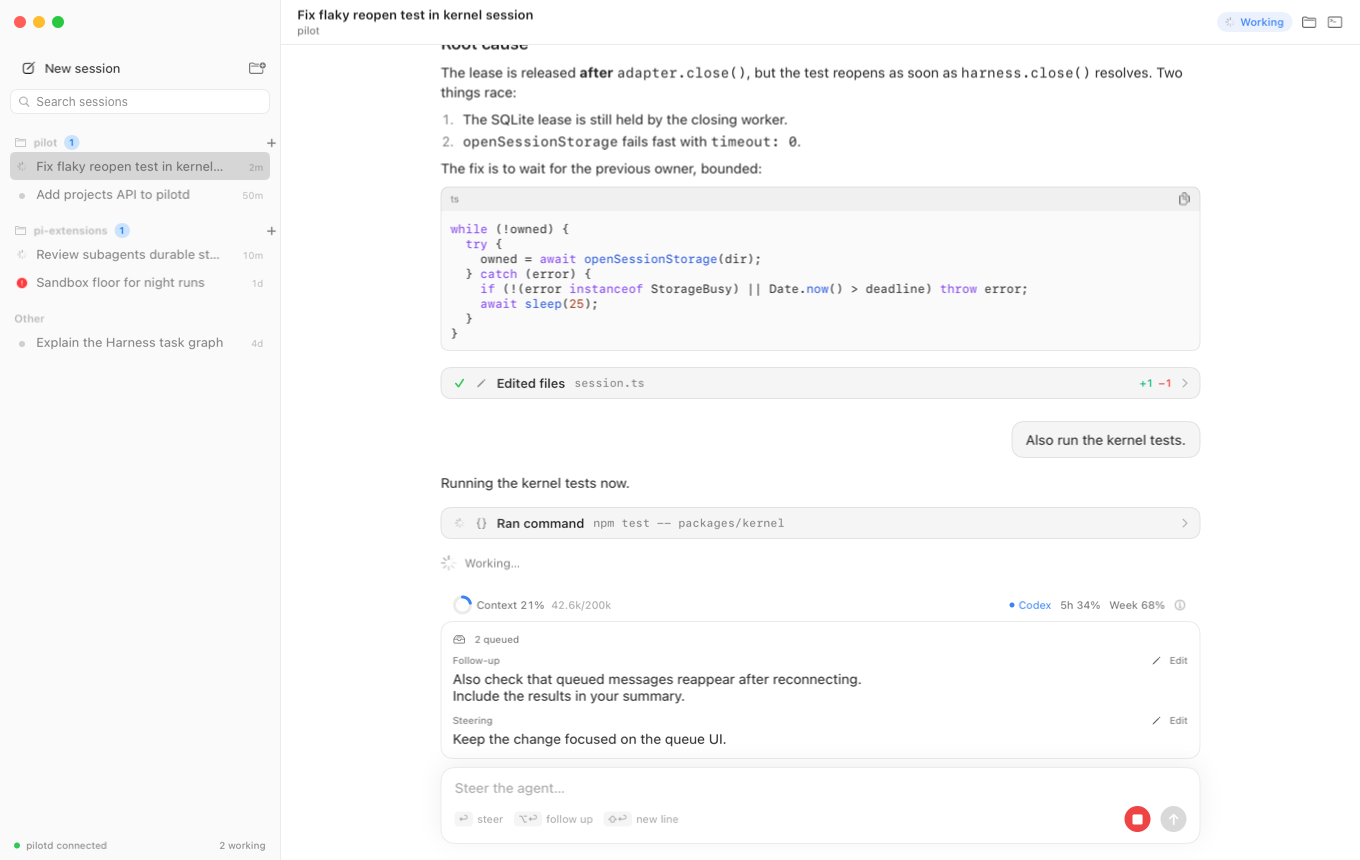
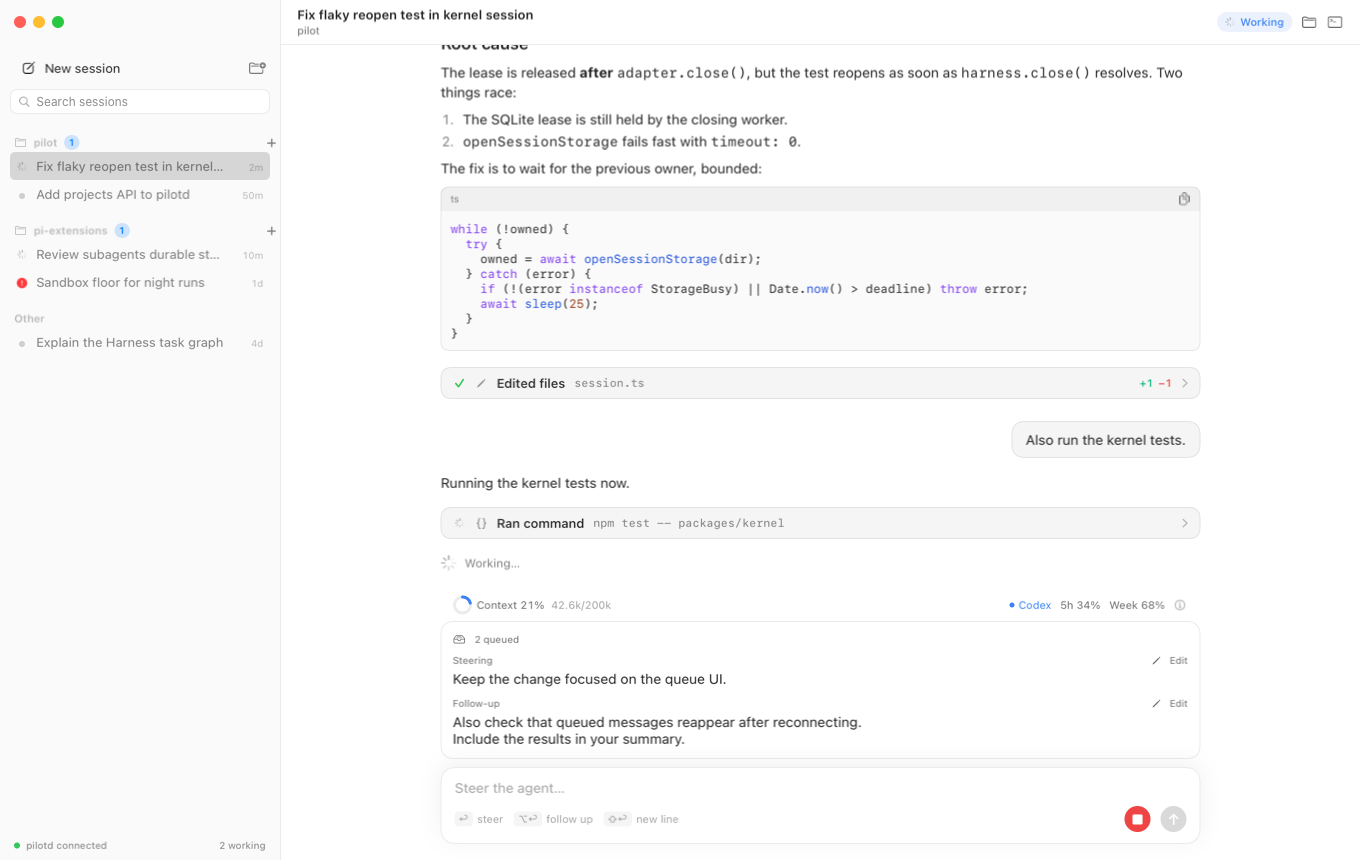
fix(chat): display steering before queued follow-ups

Changed region(s): [[0.3088, 0.7558, 0.6485, 0.8767], [0.8647, 0.8163, 0.8956, 0.8465]]

diff --git a/apps/macos/Tests/PilotCoreTests/TranscriptTests.swift b/apps/macos/Tests/PilotCoreTests/TranscriptTests.swift
@@ -93,8 +93,22 @@ private func json(_ text: String) -> JSONValue {
     #expect(transcript.queuedMessages.map(\.id) == [10, 11])
     #expect(transcript.queuedMessages.map(\.mode) == [.followUp, .steer])
     #expect(transcript.queuedMessages.map(\.text) == ["Edited\nDetails", "Unchanged"])
+    #expect(transcript.queuedMessagesInDeliveryOrder.map(\.id) == [11, 10])
     #expect(transcript.entries.isEmpty)
     let request = EditQueuedMessageRequest(message: "Edited\nDetails")
     let encoded = try JSONValue.decode(JSONEncoder().encode(request))
     #expect(encoded == .object(["message": .string("Edited\nDetails")]))
+}
+
+@Test func queueDisplayPrioritizesSteeringAndPreservesOrderWithinEachMode() {
+    var transcript = Transcript()
+    transcript.apply(json(#"{"type":"queue_update","items":[{"id":10,"mode":"followUp","content":"First follow-up"},{"id":11,"mode":"steer","content":"First steering"},{"id":12,"mode":"followUp","content":"Second follow-up"},{"id":13,"mode":"steer","content":"Second steering"},{"id":14,"mode":"followUp","content":"Third follow-up"}]}"#))
+    #expect(transcript.queuedMessagesInDeliveryOrder.map(\.id) == [11, 13, 10, 12, 14])
+    #expect(transcript.queuedMessages.map(\.id) == [10, 11, 12, 13, 14])
+    #expect(transcript.queued == 5)
+
+    transcript.apply(json(#"{"type":"queue_update","items":[{"id":10,"mode":"followUp","content":"First follow-up"},{"id":12,"mode":"followUp","content":"Second follow-up"},{"id":14,"mode":"followUp","content":"Third follow-up"}]}"#))
+    #expect(transcript.queuedMessagesInDeliveryOrder.map(\.id) == [10, 12, 14])
+    transcript.apply(json(#"{"type":"queue_update","items":[]}"#))
+    #expect(transcript.queuedMessagesInDeliveryOrder.isEmpty)
 }

diff --git a/apps/macos/Tests/PilotCoreTests/PerformanceTests.swift b/apps/macos/Tests/PilotCoreTests/PerformanceTests.swift
@@ -61,6 +61,7 @@ private func event(_ text: String) -> JSONValue { try! JSONValue.decode(Data(tex
     let first = try await processor.apply([original])
     #expect(first.queuedMessages.map(\.id) == [10, 11])
     #expect(first.queuedMessages.map(\.text) == ["Original", "Steering"])
+    #expect(first.queuedMessagesInDeliveryOrder.map(\.id) == [11, 10])
     let edit = event(#"{"type":"queue_update","items":[{"id":10,"mode":"followUp","content":"Edited"},{"id":11,"mode":"steer","content":"Steering"}]}"#)
     let edited = try await processor.apply([edit])
     #expect(edited.queued == first.queued)

diff --git a/apps/macos/Sources/PilotCore/Transcript.swift b/apps/macos/Sources/PilotCore/Transcript.swift
@@ -108,6 +108,11 @@ public struct Transcript: Equatable, Sendable {
 
     public init() {}
 
+    /// Steering joins the current run before follow-ups. Keep FIFO order within each delivery mode.
+    public var queuedMessagesInDeliveryOrder: [QueuedMessage] {
+        queuedMessages.filter { $0.mode == .steer } + queuedMessages.filter { $0.mode == .followUp }
+    }
+
     /// Tool results by call ID; they render inside their call's card.
     public var results: [String: ChatMessage] {
         var results: [String: ChatMessage] = [:]

diff --git a/apps/macos/Sources/Pilot/ChatView.swift b/apps/macos/Sources/Pilot/ChatView.swift
@@ -122,7 +122,7 @@ struct ChatView: View {
                 Composer(
                     state: composer,
                     working: transcript.working || session.state == "starting",
-                    queuedMessages: transcript.queuedMessages,
+                    queuedMessages: transcript.queuedMessagesInDeliveryOrder,
                     onSend: send,
                     onStop: { Task { try? await AppModel.shared.client.stop(session.id) } },
                     onEditQueuedMessage: { id, text in

diff --git a/apps/macos/Sources/PilotCore/TranscriptPresentation.swift b/apps/macos/Sources/PilotCore/TranscriptPresentation.swift
@@ -7,6 +7,9 @@ public struct TranscriptPresentation: Equatable, Sendable {
     public var streaming = false
     public var queuedMessages: [QueuedMessage] = []
     public var queued: Int { queuedMessages.count }
+    public var queuedMessagesInDeliveryOrder: [QueuedMessage] {
+        queuedMessages.filter { $0.mode == .steer } + queuedMessages.filter { $0.mode == .followUp }
+    }
     public var retry: String?
     public var error: String?
     public var revision = 0

diff --git a/apps/macos/README.md b/apps/macos/README.md
@@ -15,7 +15,8 @@ Native SwiftUI client for pilotd, with a libghostty terminal per session.
   blocks with copy), collapsible thinking, grouped tool rows with summaries ("Ran command npm test"),
   live output and stop. Return steers the current run (or sends when idle), Option-Return queues a
   follow-up, Shift-Return adds a line. All queued messages appear above the composer, with their delivery
-  mode and full text; long queues scroll and survive reconnects. Each queued message has an Edit action
+  mode and full text; steering appears before follow-ups, with FIFO order within each mode. Long queues
+  scroll and survive reconnects. Each queued message has an Edit action
   with Save and Cancel. Saving preserves its position and delivery mode; consumed messages cannot be edited.
 - **Usage footer.** Above the composer, the optional session usage snapshot shows a context-window
   estimate (percent and tokens/window) and Claude (orange) or Codex (blue) subscription windows.

diff --git a/PLAN.md b/PLAN.md
@@ -219,7 +219,8 @@ reports), producing a morning summary in the app and Slack.
 
 - Sidebar grouped by origin and state; badges for `waiting` sessions (they need you).
 - Chat: markdown, diffs for edits and patches, tool cards, steer and follow-up, stop. Show all queued
-  user messages above the composer until consumed, restoring them on reconnect. Edit each queued message
+  user messages above the composer until consumed, restoring them on reconnect. Display steering before
+  follow-ups, preserving FIFO order within each mode. Edit each queued message
   in place with Save/Cancel, preserving order and delivery mode and rejecting edits after consumption.
 - Chat footer: live context-window estimate and Claude/Codex subscription windows with reset times,
   supplied by the user's pi-extensions `usage` event bus (no duplicate polling or credential store).
